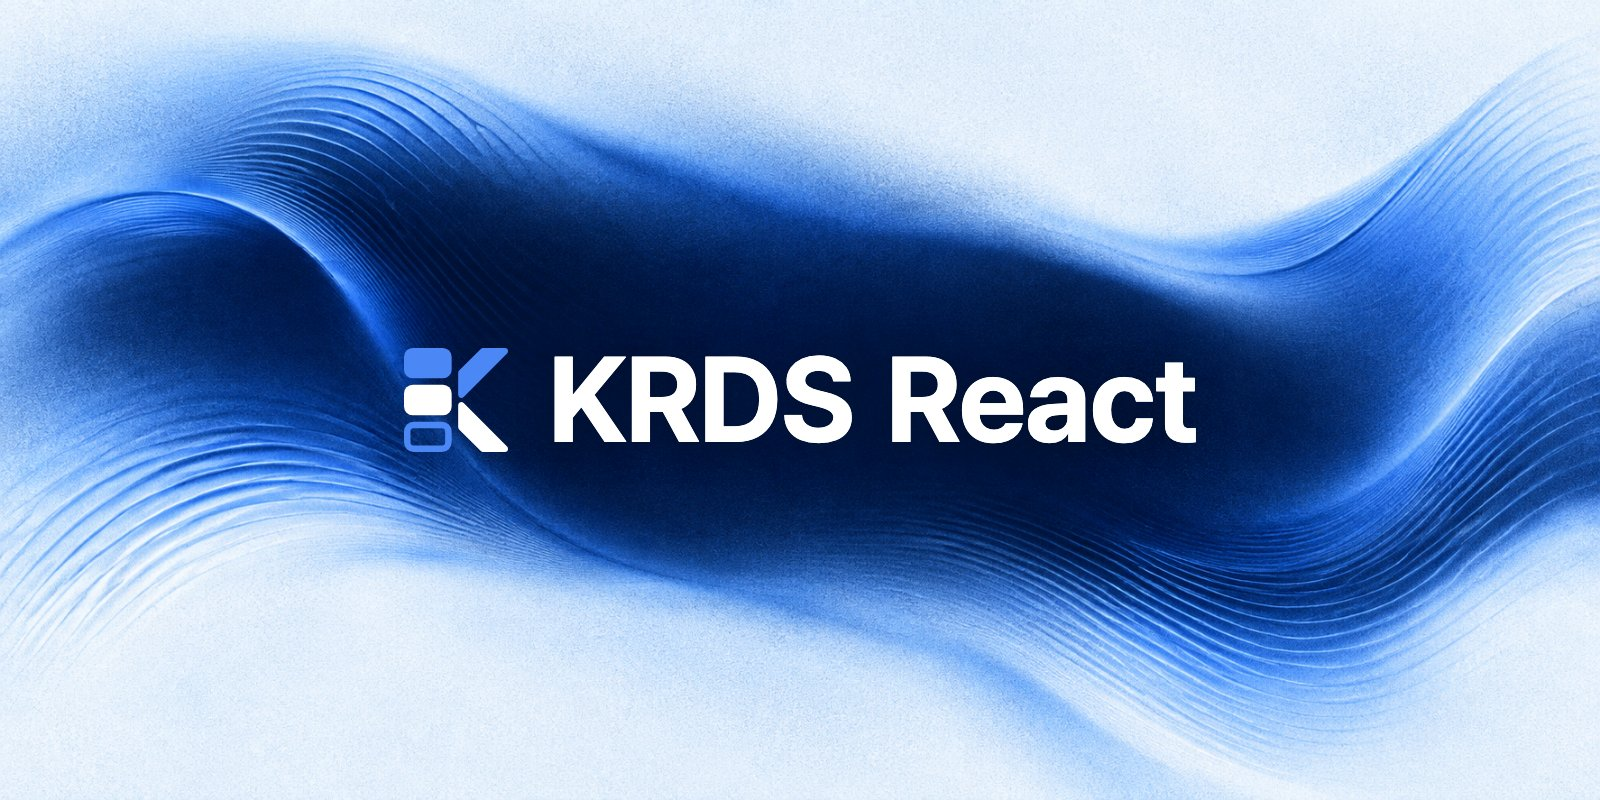
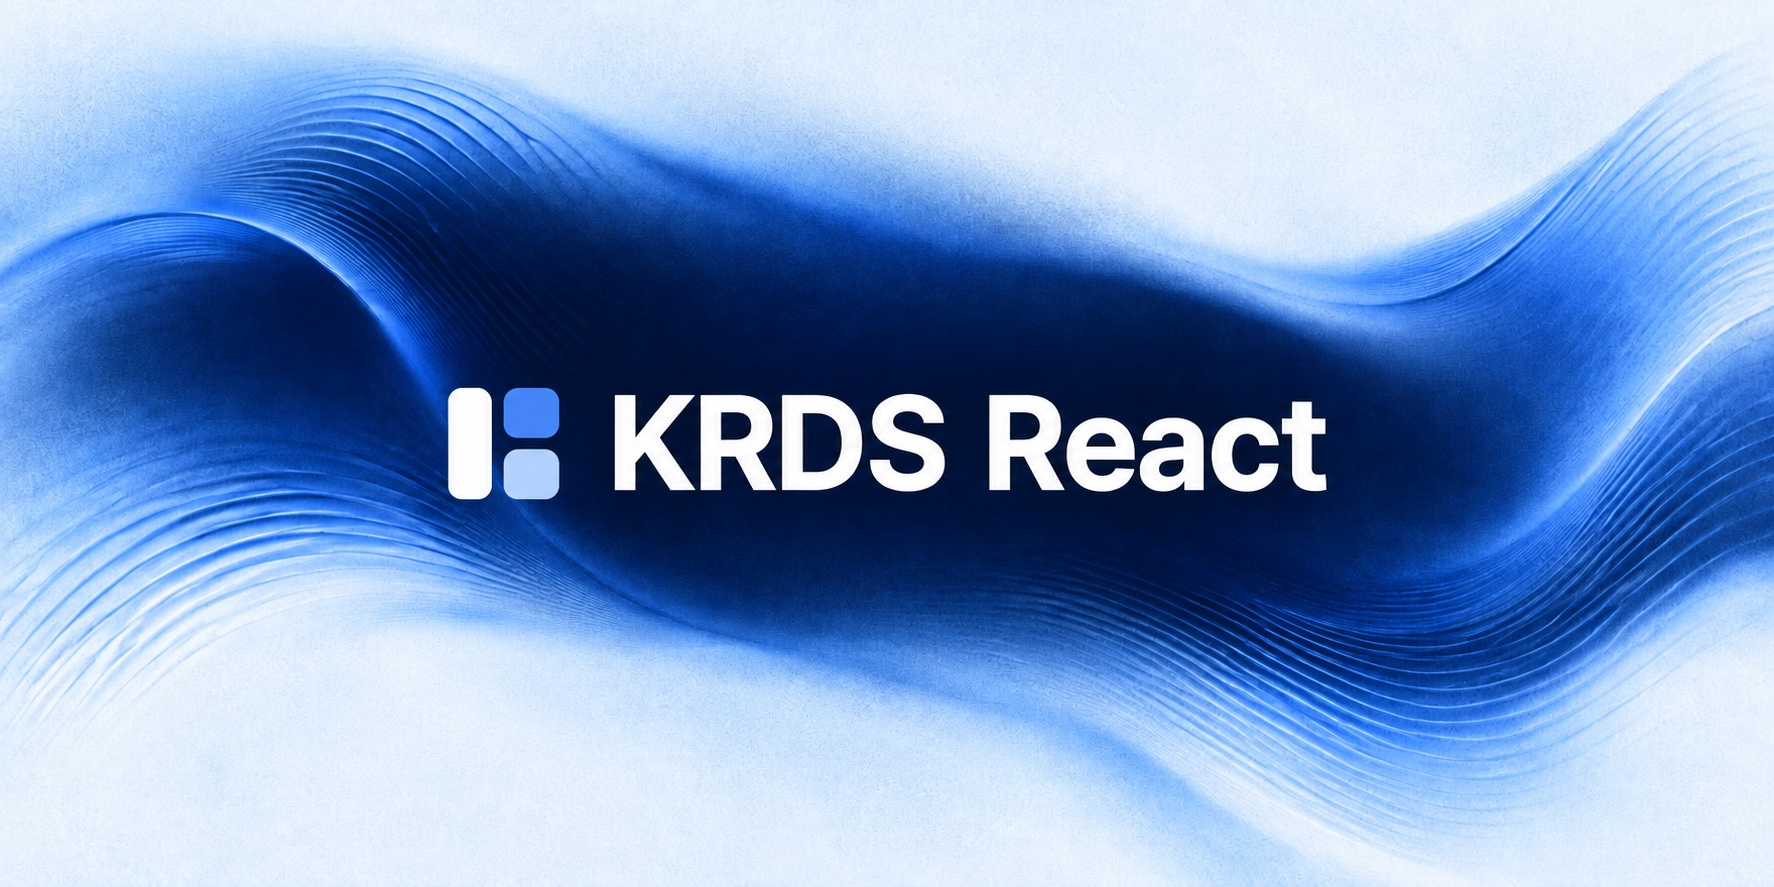
docs: 사용 이점과 최신 로고를 반영하고 문서 헤더 통일

diff --git a/docs/.vitepress/config.ts b/docs/.vitepress/config.ts
@@ -1,3 +1,4 @@
+import { readFileSync } from 'node:fs'
 import { resolve } from 'node:path'
 import { defineConfig, postcssIsolateStyles } from 'vitepress'
 import type { HeadConfig, MarkdownRenderer } from 'vitepress'
@@ -5,10 +6,11 @@ import { componentGroups, krdsGuides } from './component-groups.ts'
 import { pageDescription } from './pages.ts'
 
 const root = resolve(import.meta.dirname, '../..')
+const { version } = JSON.parse(readFileSync(resolve(root, 'package.json'), 'utf-8')) as { version: string }
 
 const siteUrl = 'https://react.krds.initializer.org'
 const siteDescription =
-  'KRDS 공식 krds-react를 포팅한 React 컴포넌트 라이브러리 문서입니다. 공공 웹서비스를 위한 폼, 내비게이션, 레이아웃, 피드백 UI 예제와 API를 제공합니다.'
+  'KRDS 공식 디자인을 기반으로 접근성 오류와 React 호환성을 개선한 컴포넌트 라이브러리입니다. Next.js App Router 지원과 TypeScript API, 검증된 예제를 제공합니다.'
 
 /** 페이지 URL (cleanUrls 기준) */
 const pageUrl = (relativePath: string) => `${siteUrl}/${relativePath.replace(/(^|\/)index\.md$/, '$1').replace(/\.md$/, '')}`
@@ -153,7 +155,8 @@ export default defineConfig({
       // KRDS Vue · React · Angular 전환 (theme/FrameworkSwitch.vue)
       { component: 'FrameworkSwitch', props: { current: 'react' } },
       { text: '시작하기', link: '/guide/getting-started' },
-      { text: '컴포넌트', link: '/components/' }
+      { text: '컴포넌트', link: '/components/' },
+      { text: `v${version}`, link: 'https://github.com/Initializer-org/krds-react/blob/main/CHANGELOG.md' }
     ],
     sidebar: [
       {
@@ -169,7 +172,10 @@ export default defineConfig({
         items: group.pages.map(([name, slug]) => ({ text: name, link: `/components/${slug}` }))
       }))
     ],
-    socialLinks: [{ icon: 'github', link: 'https://github.com/Initializer-org/krds-react' }],
+    socialLinks: [
+      { icon: 'github', link: 'https://github.com/Initializer-org/krds-react' },
+      { icon: 'npm', link: 'https://www.npmjs.com/package/@krds.ui/react' }
+    ],
     editLink: {
       pattern: 'https://github.com/Initializer-org/krds-react/edit/main/docs/:path',
       text: '이 페이지 수정하기'

diff --git a/docs/index.md b/docs/index.md
@@ -5,8 +5,8 @@ titleTemplate: 대한민국 정부 디자인 시스템 React 컴포넌트 라이
 
 hero:
   name: KRDS React
-  text: 대한민국 정부 디자인 시스템을 React로
-  tagline: KRDS 공식 krds-react 1.1.1을 포팅한 React + TypeScript 컴포넌트 라이브러리
+  text: KRDS에 접근성과 React 호환성을 더하다
+  tagline: 공식 krds-react 1.1.1을 기반으로 접근성 오류와 React 18 호환성 문제를 고치고, Next.js 연결과 공개 API를 보완했습니다.
   actions:
     - theme: brand
       text: 시작하기
@@ -15,17 +15,32 @@ hero:
       text: 컴포넌트 보기
       link: /components/
     - theme: alt
-      text: GitHub
-      link: https://github.com/Initializer-org/krds-react
+      text: 개선한 점
+      link: /#improvements
 
 features:
-  - title: 공식 krds-react 그대로
-    details: 컴포넌트·props·CSS가 공식 krds-react 1.1.1과 같고, 원본의 접근성 문제를 고쳤습니다.
-  - title: 접근성 자동 검사
-    details: 이 문서의 모든 예제를 실제 브라우저에서 axe-core로 검사하고, axe로 드러나지 않는 레이블 연결·이름은 회귀 테스트로 확인합니다. 고대비 모드를 지원합니다.
-  - title: Next.js App Router
-    details: 빌드 결과에 "use client"를 넣어 서버 컴포넌트에서 바로 import할 수 있습니다. TypeScript 타입 정의를 함께 제공합니다.
+  - title: 원본의 접근성 오류 수정
+    details: 체크박스·셀렉트의 레이블 연결, 모달 제목, 툴팁 설명을 바로잡았습니다. 문서 예제의 axe-core 검사와 회귀 테스트로 수정 사항을 확인합니다.
+  - title: React 18·19 동작 검증
+    details: 원본 Modal의 React 18 경고와 정리 누락을 수정했습니다. 닫기와 화면 전환 뒤 포커스·스크롤 복원을 두 버전에서 검증했습니다.
+  - title: Next.js·TypeScript 연결 보완
+    details: Next.js App Router용 "use client", CSS import 타입 선언, 누락된 하위 컴포넌트와 props 타입 export를 제공합니다.
 ---
+
+## 공식 패키지에서 개선한 점 {#improvements}
+
+공식 `krds-react@1.1.1`을 기준으로 직접 수정하고 검증한 내용입니다.
+
+| 사용 중 겪을 수 있는 문제                                              | @krds.ui/react의 개선                                                                                             |
+| ---------------------------------------------------------------------- | ----------------------------------------------------------------------------------------------------------------- |
+| 레이블이 입력 요소와 연결되지 않거나 화면낭독기에 잘못된 이름이 전달됨 | 체크박스·셀렉트의 자동 ID와 레이블 연결, 모달 제목, 툴팁 설명을 수정했습니다.                                     |
+| React 18에서 Modal 경고가 발생하고 정리 작업이 누락됨                  | 닫기·화면 전환 시 observer와 타이머를 해제하고 포커스·배경 스크롤을 복원합니다. React 18.2와 19에서 검증했습니다. |
+| 서버 렌더링과 브라우저의 라디오 ID가 달라짐                            | 임의의 숫자 대신 `useId`를 사용해 서버·브라우저 ID를 맞췄습니다.                                                  |
+| 구현된 하위 컴포넌트와 타입을 패키지에서 가져올 수 없음                | `TagWrap`, HelpPanel 하위 컴포넌트, `SelectOption`, `StepItem` 등 누락된 export를 보완했습니다.                   |
+
+Next.js App Router에서 불러올 수 있도록 빌드에 `"use client"`를 선언하고, TypeScript의 CSS import 검사에 필요한 타입 선언도 제공합니다. 문서 예제의 axe-core 검사와 회귀 테스트를 CI에서 실행해 수정한 동작을 계속 확인합니다.
+
+[포팅 기록](https://github.com/Initializer-org/krds-react/blob/main/PORTING.md)에서 코드 수준의 차이와 원본 출처를 확인할 수 있습니다.
 
 ## 컴포넌트 미리보기
 

diff --git a/README.md b/README.md
@@ -34,11 +34,26 @@
 
 ## KRDS React: 대한민국 정부 디자인 시스템을 React로
 
-[KRDS(대한민국 정부 디자인 시스템)](https://www.krds.go.kr/html/site/index.html) 공식 React 패키지 [`krds-react@1.1.1`](https://www.npmjs.com/package/krds-react)을 포팅한 React + TypeScript 컴포넌트 라이브러리입니다. 공공 웹서비스에서 반복되는 폼, 내비게이션, 레이아웃, 피드백 UI를 제공합니다.
+[KRDS(대한민국 정부 디자인 시스템)](https://www.krds.go.kr/html/site/index.html)의 공식 디자인을 유지하면서, 실제 서비스에서 겪는 접근성 오류와 React 호환성 문제를 고친 컴포넌트 라이브러리입니다. 공식 [`krds-react@1.1.1`](https://www.npmjs.com/package/krds-react)(ISC)을 포팅했으며, 기존 컴포넌트·props·CSS를 기반으로 사용할 수 있습니다.
 
-- **공식 krds-react 기반.** 원본의 컴포넌트·props·CSS를 기반으로 접근성과 React 호환성 문제를 수정했습니다. 원본과의 차이는 [포팅 기록](./PORTING.md)에 정리했습니다.
-- **접근성 자동 검사.** 문서의 모든 컴포넌트 예제를 실제 브라우저에서 axe-core로 검사합니다. 레이블 연결·접근 가능한 이름·서버 렌더링 ID는 회귀 테스트로 확인합니다.
-- **필요한 만큼만.** ESM·Tree-shaking으로 쓰는 컴포넌트만 번들에 포함됩니다. TypeScript 타입 정의와 Next.js App Router를 지원합니다.
+- **접근성 오류 수정.** 레이블 연결, 화면낭독기에 전달되는 이름과 설명, 서버 렌더링 ID 문제를 고쳤습니다. 문서 예제와 회귀 테스트로 수정 사항을 검사합니다.
+- **React 18·19 동작 검증.** 원본 Modal의 React 18 경고와 정리 누락을 수정했습니다. 모달을 닫거나 화면에서 제거했을 때 포커스와 스크롤이 복원되는지 두 버전에서 확인합니다.
+- **Next.js·TypeScript 연결 보완.** Next.js App Router용 `"use client"`, CSS import 타입 선언, 누락된 하위 컴포넌트와 props 타입 export를 제공합니다.
+
+## 공식 패키지에서 개선한 점
+
+공식 `krds-react@1.1.1`을 기준으로 직접 수정하고 검증한 내용입니다.
+
+| 사용 중 겪을 수 있는 문제                                              | @krds.ui/react의 개선                                                                                             |
+| ---------------------------------------------------------------------- | ----------------------------------------------------------------------------------------------------------------- |
+| 레이블이 입력 요소와 연결되지 않거나 화면낭독기에 잘못된 이름이 전달됨 | 체크박스·셀렉트의 자동 ID와 레이블 연결, 모달 제목, 툴팁 설명을 수정했습니다.                                     |
+| React 18에서 Modal 경고가 발생하고 정리 작업이 누락됨                  | 닫기·화면 전환 시 observer와 타이머를 해제하고 포커스·배경 스크롤을 복원합니다. React 18.2와 19에서 검증했습니다. |
+| 서버 렌더링과 브라우저의 라디오 ID가 달라짐                            | 임의의 숫자 대신 `useId`를 사용해 서버·브라우저 ID를 맞췄습니다.                                                  |
+| 구현된 하위 컴포넌트와 타입을 패키지에서 가져올 수 없음                | `TagWrap`, HelpPanel 하위 컴포넌트, `SelectOption`, `StepItem` 등 누락된 export를 보완했습니다.                   |
+
+Next.js App Router에서 불러올 수 있도록 빌드에 `"use client"`를 선언하고, TypeScript의 CSS import 검사에 필요한 타입 선언도 제공합니다. 문서 예제의 axe-core 검사와 회귀 테스트를 CI에서 실행해 수정한 동작을 계속 확인합니다.
+
+수정한 코드와 원본과의 차이는 [포팅 기록](./PORTING.md)에 정리했습니다.
 
 ## 빠른 시작
 

diff --git a/docs/guide/getting-started.md b/docs/guide/getting-started.md
@@ -1,6 +1,8 @@
 # 시작하기
 
-KRDS React는 [KRDS(대한민국 정부 디자인 시스템)](https://www.krds.go.kr/html/site/index.html) 공식 React 패키지 [krds-react](https://www.npmjs.com/package/krds-react) 1.1.1(ISC)을 포팅한 컴포넌트 라이브러리입니다. 이 패키지는 **ESM 전용**이며 CommonJS `require()`는 지원하지 않습니다.
+KRDS React는 [KRDS(대한민국 정부 디자인 시스템)](https://www.krds.go.kr/html/site/index.html) 공식 React 패키지 [krds-react](https://www.npmjs.com/package/krds-react) 1.1.1(ISC)의 디자인과 컴포넌트 API를 기반으로, 접근성 오류와 React 18 Modal 문제를 수정하고 Next.js·TypeScript 연결을 보완한 라이브러리입니다. 구체적인 차이는 [공식 패키지에서 개선한 점](/#improvements)을 참고하세요.
+
+이 패키지는 **ESM 전용**이며 CommonJS `require()`는 지원하지 않습니다.
 
 ## 설치
 
